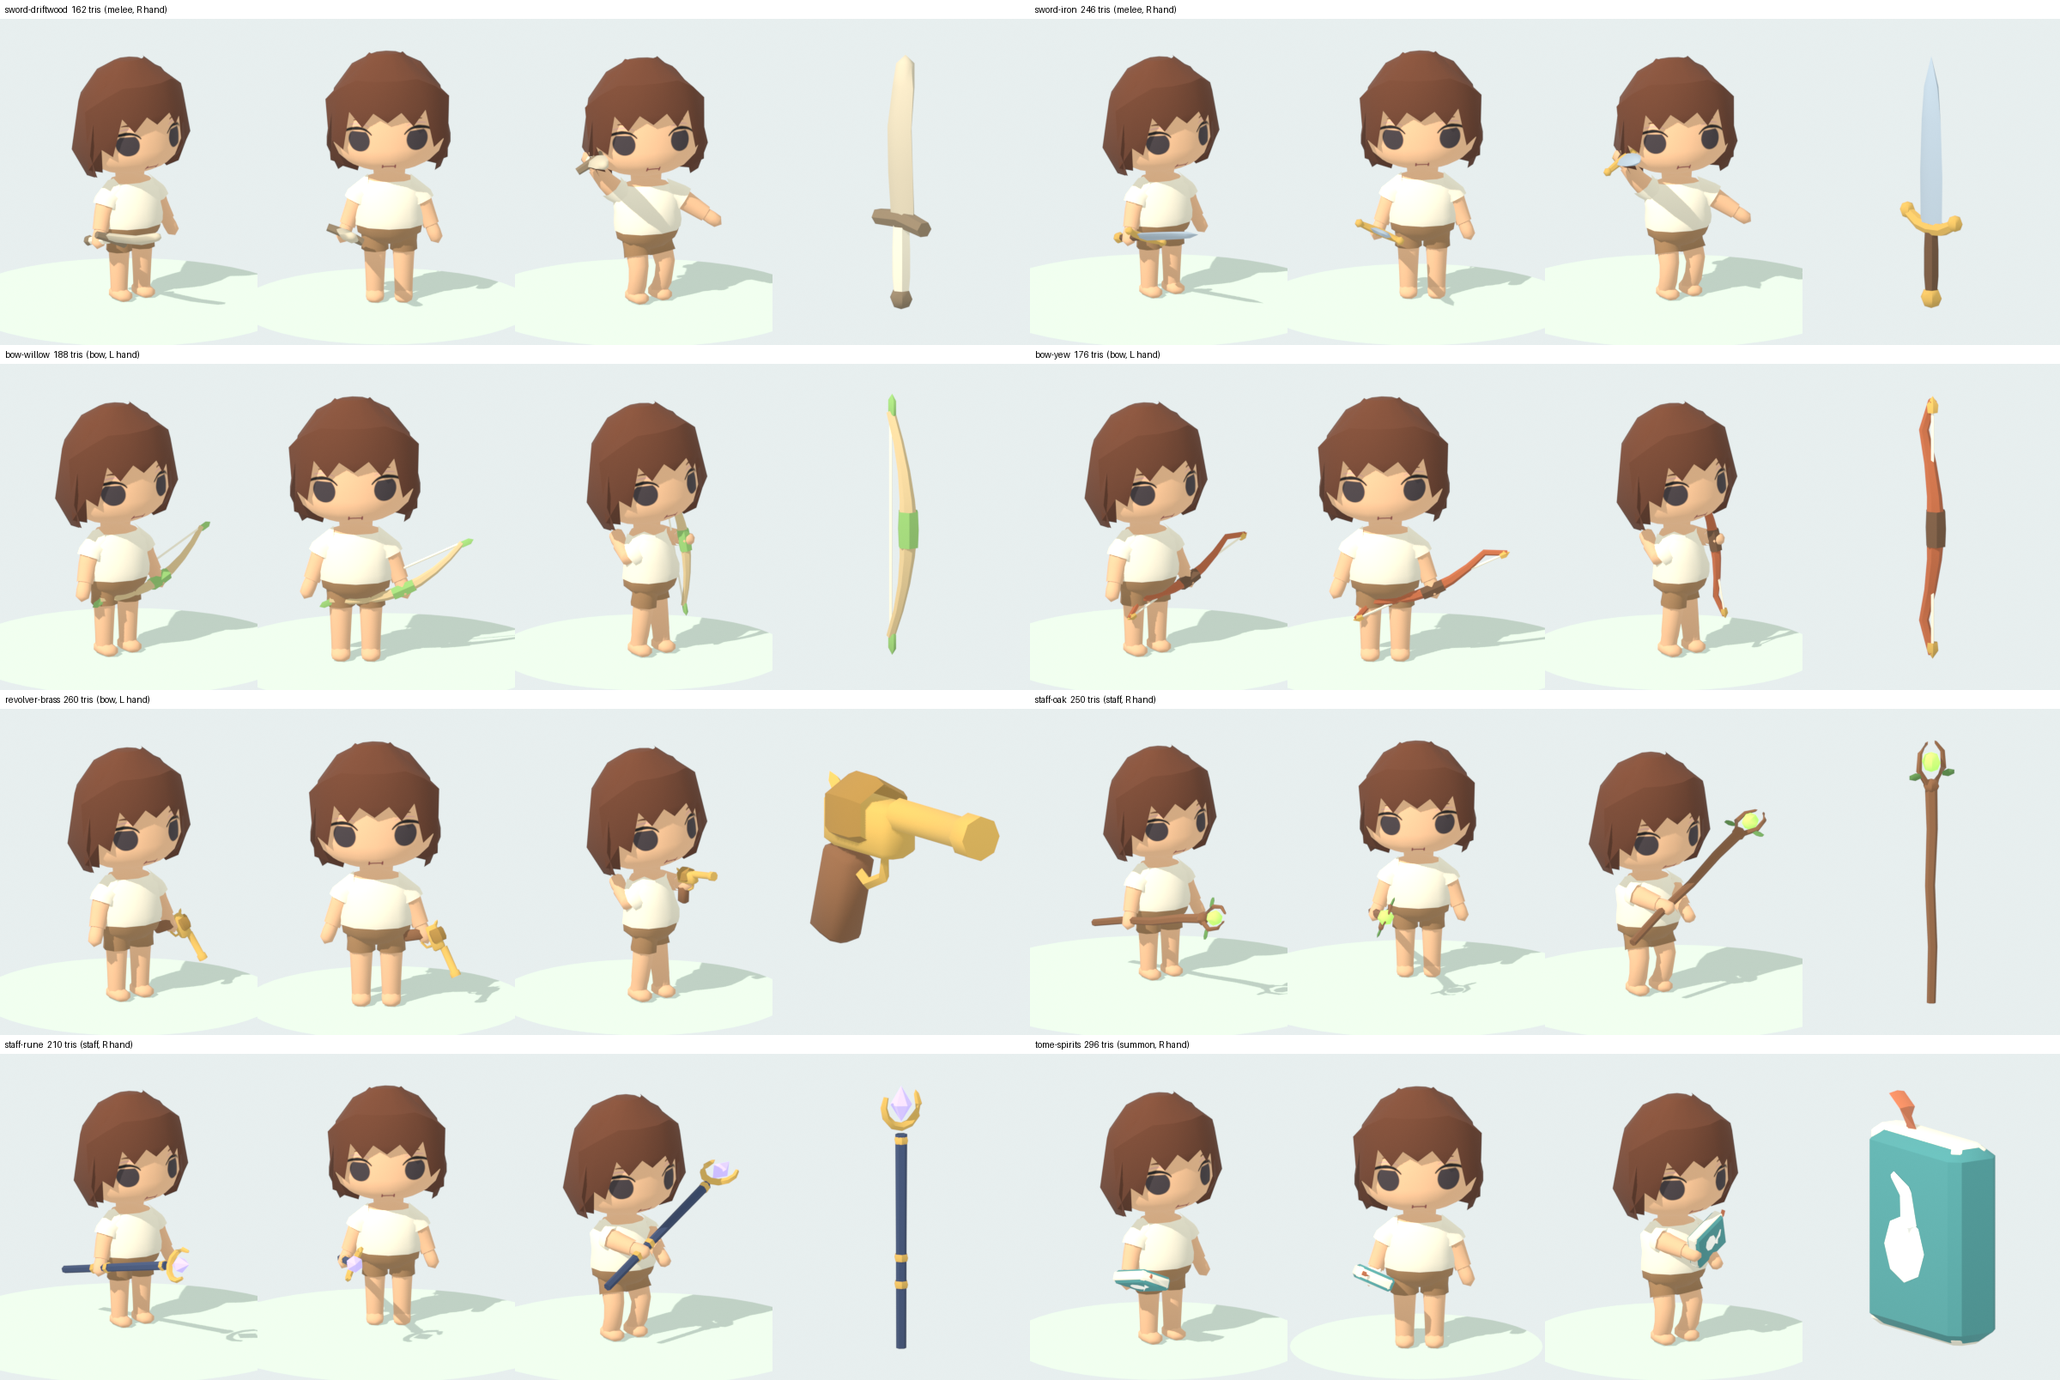
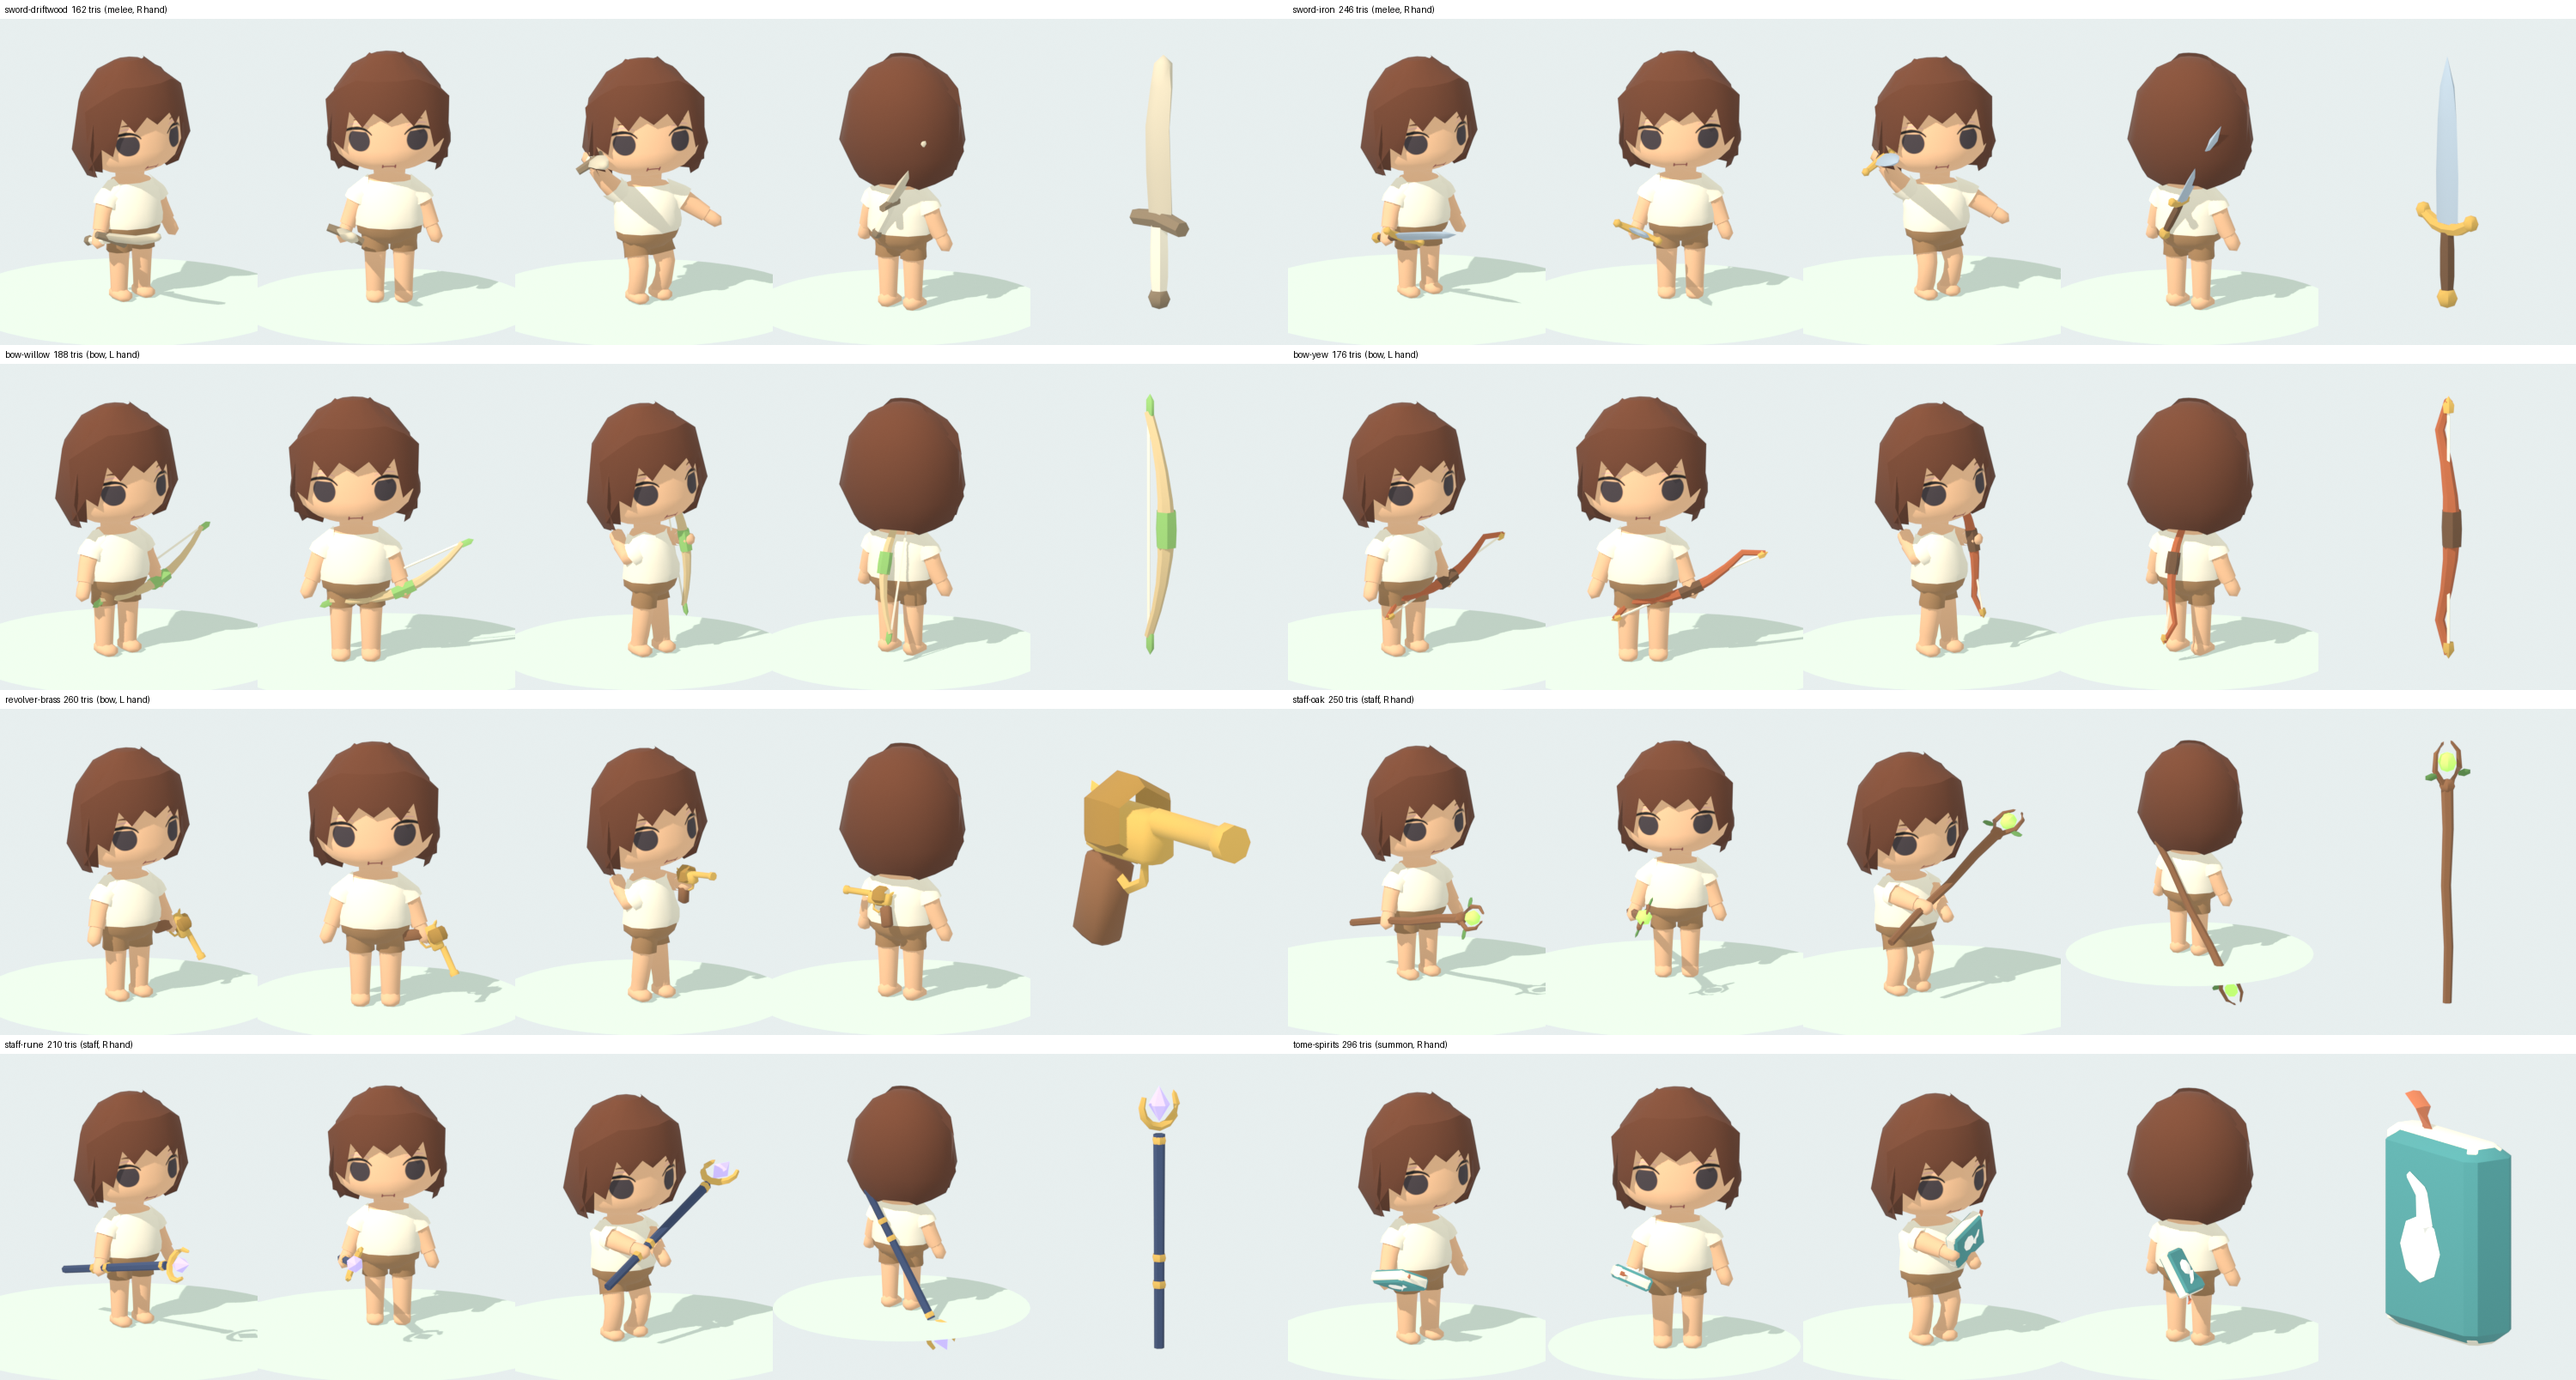
[build] props/enemies: back-socket frames, slanted fox eyes, bigger boss fists; questions for David
Claude-Session: https://claude.ai/code/session_01Ld4ptCxPdsb5feV63kLcxw

diff --git a/art/props-enemies/build_enemies.py b/art/props-enemies/build_enemies.py
@@ -22,7 +22,7 @@ SOFT = 70                      # organic parts read smooth; thorns, boxes and ro
 
 def eye(pc, p, n, rx, ry, tilt=0.0, depth=0.012):
     """A painted-looking dome eye sitting on a surface point p with normal n (rx across, ry up)."""
-    lathe(pc, p - n * depth * 0.5, [(0, -depth), (1, 0), (0.72, depth * 0.55), (0, depth)], n=8, axis=n, sx=rx, sy=ry, tilt=tilt)
+    lathe(pc, p - n * depth * 0.5, [(0, -depth), (1, 0), (0.72, depth * 0.55), (0, depth)], n=10, axis=n, sx=rx, sy=ry, tilt=tilt)
 
 
 def eyes_on(pc, c, r, x, z, rx, ry, tilt):
@@ -61,7 +61,7 @@ def shadow_fox():
 
     def glow(pc):
         pc.mat = TEL
-        eyes_on(pc, HC_, HR, 0.058, 0.37, 0.04, 0.03, math.radians(18))
+        eyes_on(pc, HC_, HR, 0.06, 0.368, 0.038, 0.025, math.radians(24))
 
     def tail(pc):
         pc.mat = "M_Fur"
@@ -410,7 +410,7 @@ def guardian_statue():
             pc.mat = "M_Stone"
             pc.tube([(s * 0.62, 0, 1.45), (s * 0.66, -0.03, 1.2)], [0.13, 0.12], sides=7, tip=False)
             rbox(pc, (s * 0.68, -0.07, 1.0), (0.3, 0.3, 0.36), ch=0.4)                                  # gauntlet
-            pc.blob((s * 0.7, -0.1, 0.74), (0.2, 0.2, 0.18), segs=8, rings=5)                          # fist
+            pc.blob((s * 0.72, -0.12, 0.72), (0.26, 0.25, 0.23), segs=8, rings=5)                      # fist
         return b
 
     def glow_arm(s):

diff --git a/art/props-enemies/render_sheets.py b/art/props-enemies/render_sheets.py
@@ -54,11 +54,16 @@ for mid, entry in CAT.items():
             pe.use_action(rig, clip, t)
             root.rotation_euler = (0, 0, math.radians(yaw))
             st.shot(f(mid, tag), char + held, elev=15, res=(300, 380))
+        bpy.data.objects.remove(holder, do_unlink=True)
+        holder = pe.attach(held, socks["Back"], kind, False)             # carried on the back outside the ruins
+        pe.use_action(rig, "Idle", 0.0)
+        root.rotation_euler = (0, 0, math.radians(150))
+        st.shot(f(mid, "e"), char + held, elev=15, res=(300, 380))
         alone = pe.import_glb(glb(mid))
         tt = turntable(alone, (6, 0, 0))
         tt.rotation_euler = (0, 0, math.radians(35))
         st.shot(f(mid, "d"), alone, elev=12, res=(300, 380), pad=1.2, ground=False)
-        cells.append((f"{label}  ({kind}, {pe.HAND[kind]} hand)", [f(mid, x) for x in "abcd"]))
+        cells.append((f"{label}  ({kind}, {pe.HAND[kind]} hand)", [f(mid, x) for x in "abced"]))
         for o in held + alone + [holder, tt]:
             bpy.data.objects.remove(o, do_unlink=True)
     else:

diff --git a/specs/props-and-enemies-art-questions.md b/specs/props-and-enemies-art-questions.md
@@ -1,2 +1,13 @@
-# props-and-enemies-art: open questions for David
+# props and enemies art: open questions
 
+Each has the assumption the build uses today. None blocks.
+
+1. **Staff and tome grip on the back.** `Character.tsx` GRIP gives `staff` and `summon` a back rotation of `[0, 0, 2.6]`, which suits the old dump staff (its head pointed down its -Y). The new weapons follow one convention (grip at the origin, tip/head up +Y glTF), so on the back the oak and rune staffs hang head-down by the knees (`weapons_sheet.png`, 4th frame). Swords and bows look right. *Assumption:* the character engine owner changes `staff.back` and `summon.back` to `[0, 0, -0.5]` (the sword's tilt mirrored). That file is outside this task, so I didn't edit it.
+2. **Staff in the hand.** The staff shares the sword's hand grip, so in Idle/Run it points forward like a lance, and in AttackCast it lies across the chest before rising. *Assumption:* fine for now. A tuned staff grip is a character-engine change, not a model change.
+3. **Bow at rest.** In Idle the bow grip holds the bow flat and pointing outward. It stands upright only in AttackBow, which is the pose it is built for. *Assumption:* same as 2.
+4. **Crafted weapons aren't wired.** `sword-iron`, `bow-yew`, `revolver-brass` and `staff-rune` have GLBs at `/assets/game/weapons/<id>.glb` (modelScale 1.3). `WEAPON_LOOK` in `lib/game/combat/data.ts` only lists the four starters. Adding an entry would also make that weapon usable in the ruins with cooldown/range numbers I would have to invent. *Assumption:* the combat owner adds the look rows (and their stats) when crafted gear reaches the loadout.
+5. **Other roster weapons.** `shield-buckler`, `totem-cedar` and `wraps-cloth` are tier-1 non-starters that are neither crafted nor higher tier, so they have no model. The buckler would need a second hand socket. *Assumption:* model them when they get looks.
+6. **Branch pickup.** Shaking a tree adds the branch straight to your pockets. `VillageLife` renders nothing for `sub: "wood"`, and there's no drop beat. The branch GLB is used as material on the workbench top. *Assumption:* whoever adds a tree-shake drop animation uses `/assets/game/props/branch.glb` (scale 1.3).
+7. **Wisp, book and elder crab aren't in the ruins spawns.** `SPAWNS` and `WAVES` only use fox, crab, mushroom, golem and the boss, so the wisp, the book and the elder crab only appear in the contact sheet and `/lab/item`. *Assumption:* spawn placement is the combat owner's call.
+8. **Telegraph glow is a slot only.** Every enemy has an emissive material named `telegraph` on its `glow_*` nodes (eyes, core, sigil, halo, rune bands) and on the wisp's ring runes, at full intensity. `EncounterRender` still shows windup as the instance tint and the red ground marker. *Assumption:* ramping `emissiveIntensity` on that material during windup is a later engine pass. The part hierarchy (body → head → glow_eyes, body → arm_l → glow_arm_l) is kept in the GLB for it.
+9. **Draw calls.** The instancer makes one InstancedMesh per GLB primitive per enemy type. The five types the ruins spawn come to 59 primitives (fox 12, crab 11, mushroom 7, golem 14, boss 15; `catalog.json` lists each part's materials). The old placeholders used a handful. *Assumption:* acceptable for the ruins scene. If the budget bites, the upgrade is merging each enemy's static parts (legs into the body) until procedural animation needs them.
